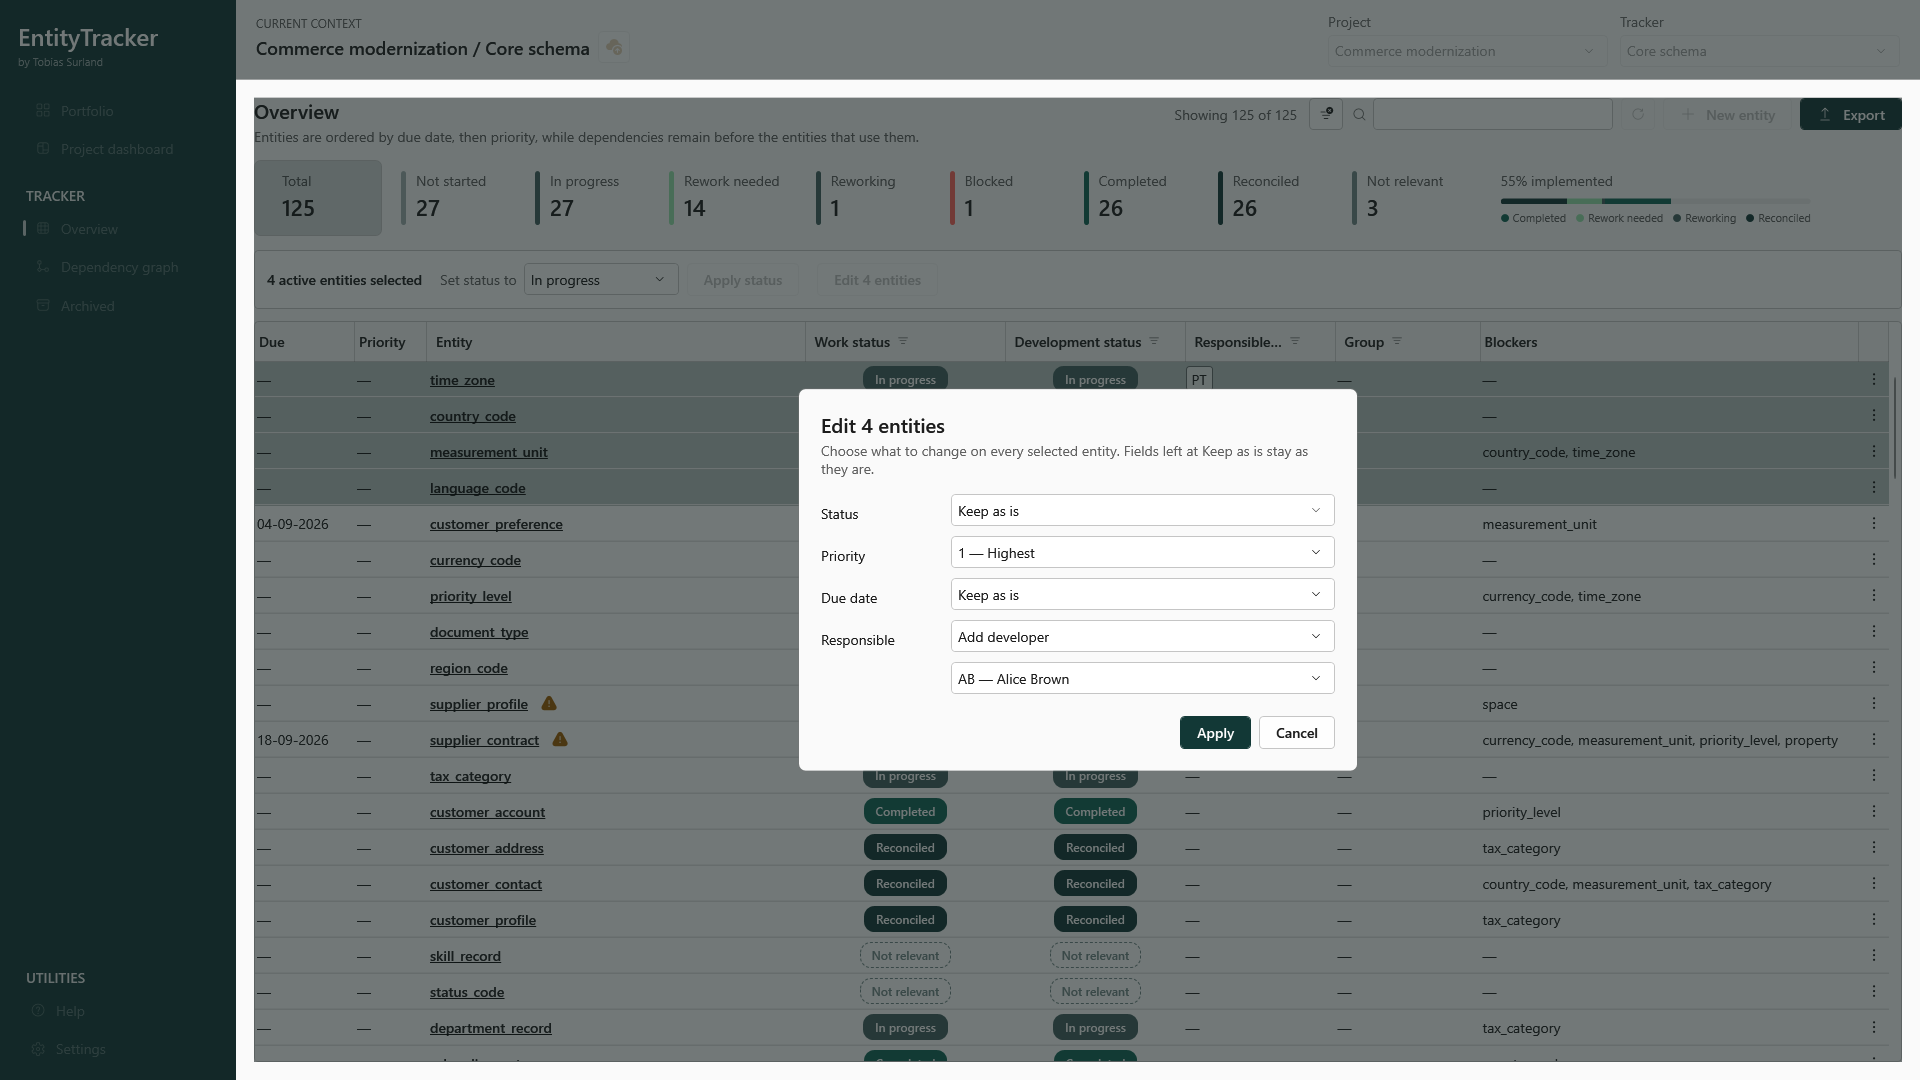
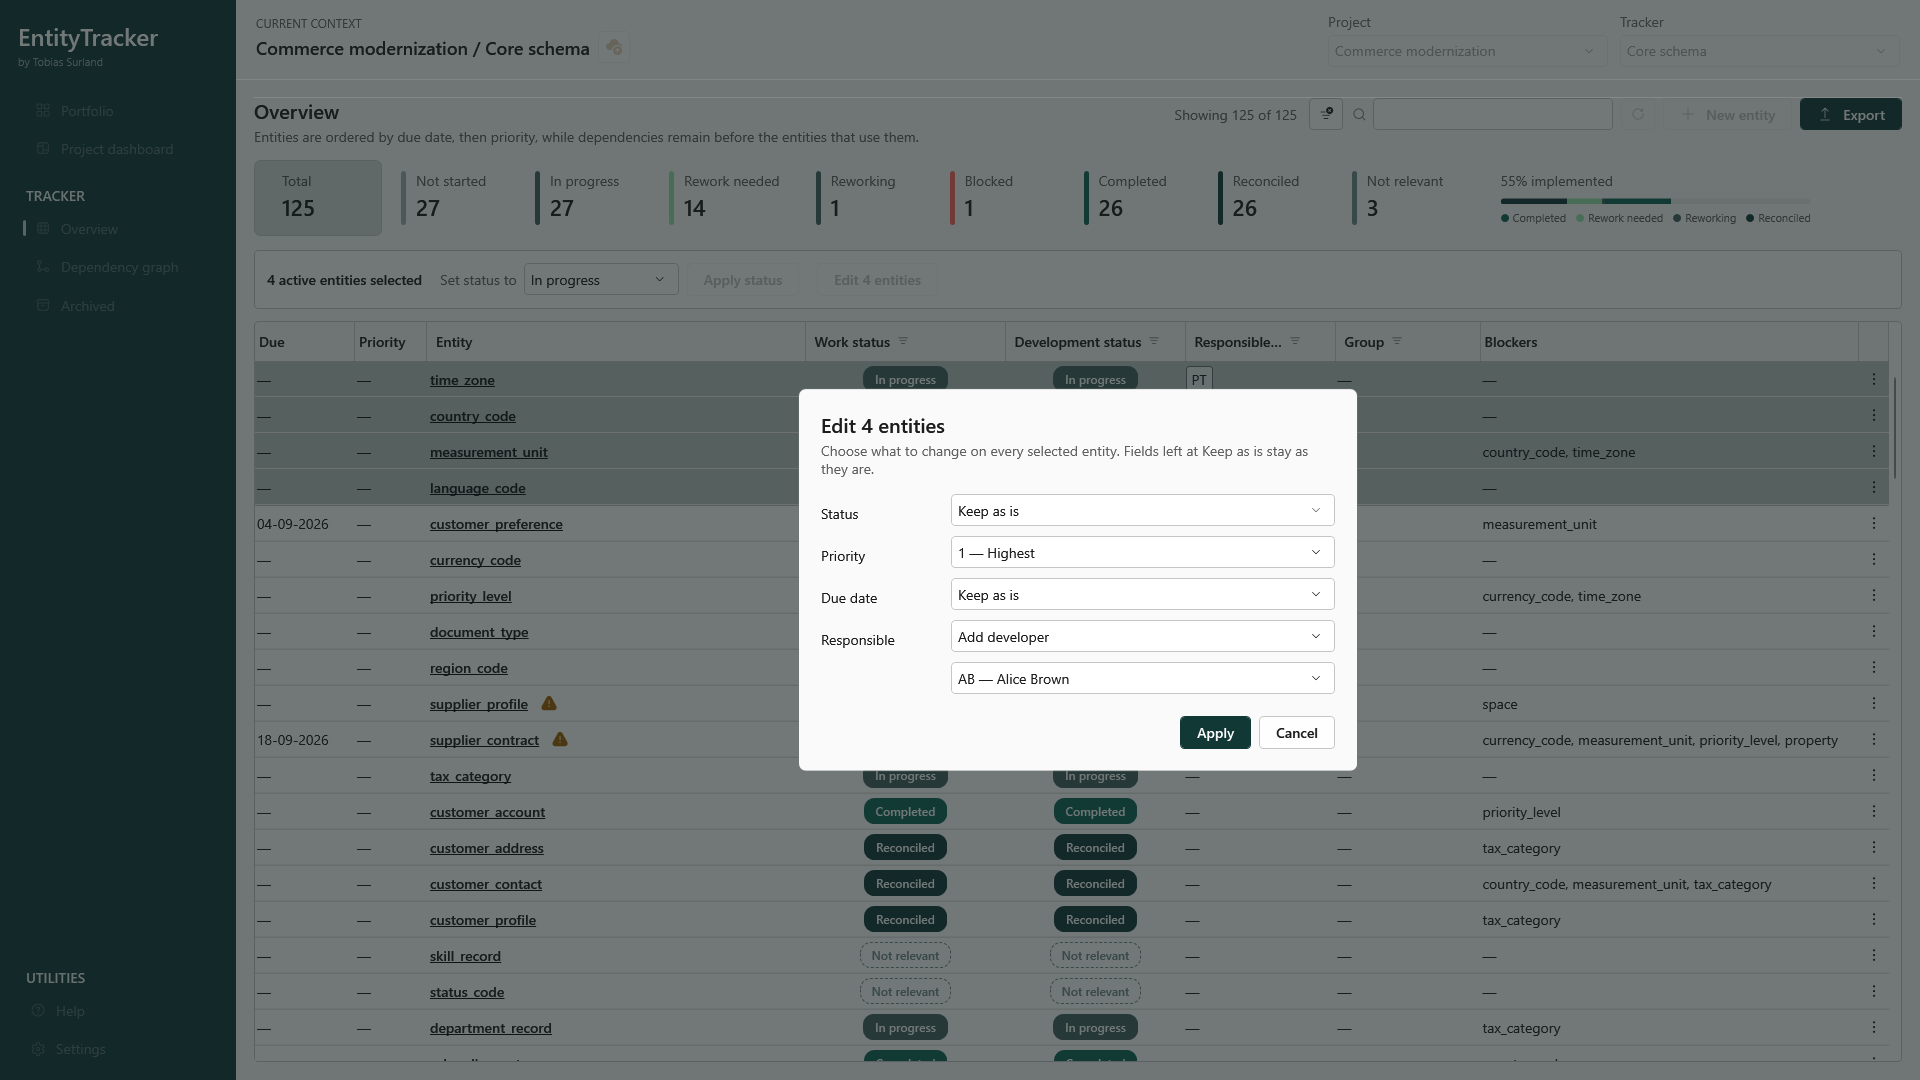
Dim the margin around the page while a page dialog is open
While the edit form or another page dialog was open, the header,
sidebar and page were dimmed but the 18 px margin around the page was
not, so it showed as a light frame in light mode and a faint one in
dark mode. A frame as wide as that margin now dims it; it covers only
the margin, so the page's own dimmed area is not dimmed twice.

Changed region(s): [[0.125, 0.0611, 1.0, 1.0]]

diff --git a/src/EntityTracker.Wpf/MainWindow.xaml b/src/EntityTracker.Wpf/MainWindow.xaml
@@ -428,6 +428,12 @@
                     <views:HelpView Visibility="{Binding IsHelp, Converter={StaticResource BooleanToVisibilityConverter}}" />
                     <views:SettingsView Visibility="{Binding IsSettings, Converter={StaticResource BooleanToVisibilityConverter}}" />
                 </Grid>
+                <!-- A page dialog dims its page; this dims the margin around the page, which would otherwise
+                     show as an undimmed frame between the dimmed header, sidebar and page. -->
+                <Border x:Name="WorkspaceMarginDialogScrim" Grid.Row="2" Panel.ZIndex="24"
+                        BorderBrush="{DynamicResource Brush.Overlay}"
+                        BorderThickness="{Binding Margin, ElementName=WorkspaceArea}"
+                        Visibility="{Binding IsPageDialogOpen, Converter={StaticResource BooleanToVisibilityConverter}}" />
 
                 <Border x:Name="BusyFooter" Grid.Row="3"
                         Padding="12,8"

diff --git a/tests/EntityTracker.Wpf.Tests/PresentationConfigurationTests.cs b/tests/EntityTracker.Wpf.Tests/PresentationConfigurationTests.cs
@@ -1793,13 +1793,21 @@ public sealed class PresentationConfigurationTests
         XDocument window = LoadWpfXaml("MainWindow.xaml");
         XNamespace x = "http://schemas.microsoft.com/winfx/2006/xaml";
 
-        foreach (string name in new[] { "SidebarDialogScrim", "HeaderDialogScrim" })
+        foreach (string name in new[] { "SidebarDialogScrim", "HeaderDialogScrim", "WorkspaceMarginDialogScrim" })
             Assert.Equal("{Binding IsPageDialogOpen, Converter={StaticResource BooleanToVisibilityConverter}}",
                 (string?)Assert.Single(window.Descendants(), element =>
                     (string?)element.Attribute(x + "Name") == name).Attribute("Visibility"));
         Assert.Equal(2, window.Descendants().Count(element =>
             element.Name.LocalName == "DataTrigger" &&
             (string?)element.Attribute("Binding") == "{Binding IsPageDialogOpen}"));
+
+        // #151: the margin around the page is dimmed as a frame exactly as wide as that margin, so the
+        // page's own dimmed area is not dimmed twice.
+        XElement margin = Assert.Single(window.Descendants(), element =>
+            (string?)element.Attribute(x + "Name") == "WorkspaceMarginDialogScrim");
+        Assert.Equal("{Binding Margin, ElementName=WorkspaceArea}", (string?)margin.Attribute("BorderThickness"));
+        Assert.Equal("{DynamicResource Brush.Overlay}", (string?)margin.Attribute("BorderBrush"));
+        Assert.Null(margin.Attribute("Background"));
     }
 
     private static XDocument LoadWpfXaml(params string[] relativePath)
